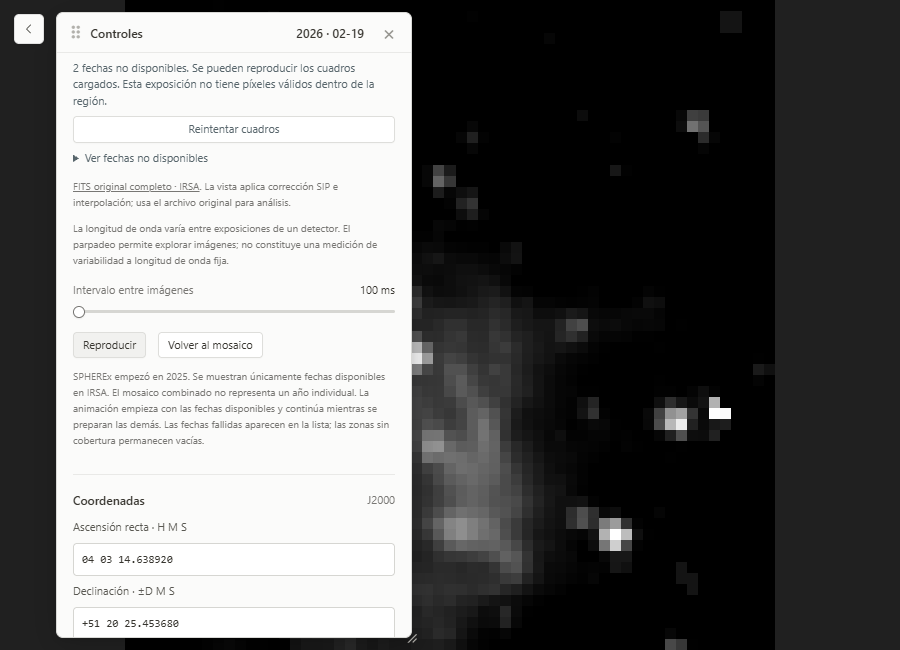
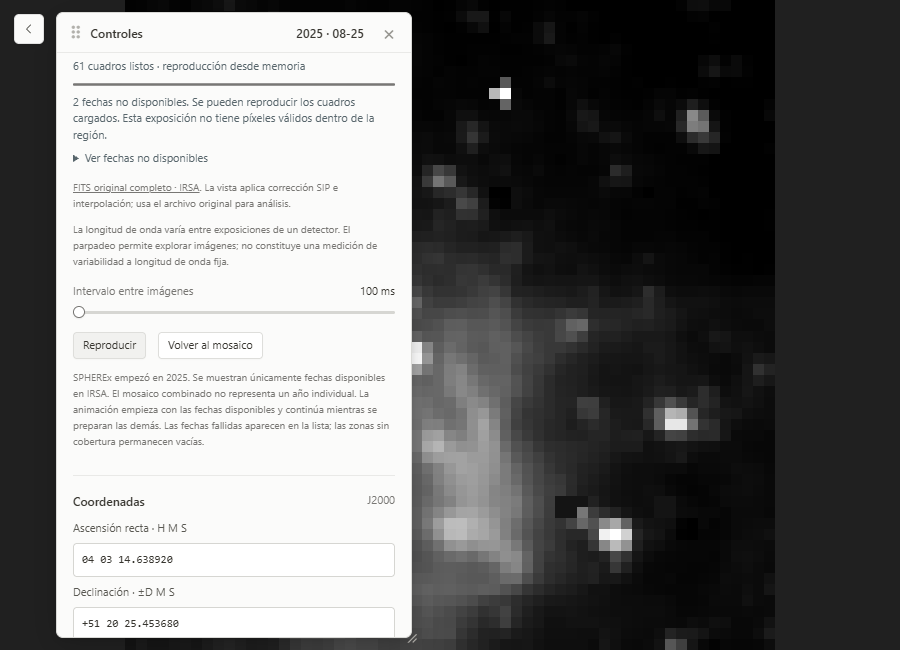
Document real region playback and current project status

diff --git a/docs/ESTADO.md b/docs/ESTADO.md
@@ -1,4 +1,4 @@
-# Estado del proyecto — 14 de noviembre de 2026
+# Estado del proyecto — 15 de noviembre de 2026
 
 ## Aplicación e infraestructura
 
@@ -7,7 +7,7 @@
 - Coordenadas de Iván/GorditoG integradas en el [PR #3](https://github.com/Chompin003/eon/pull/3). Su cuenta tiene permiso de escritura.
 - Cuatro ramas del equipo preparadas: `feat/sky-viewer`, `feat/spherex-data`, `feat/drawing-tools`, `feat/interface`. Sus cambios se conservan al sincronizar `main`.
 - Cloudflare Pages conectado con GitHub, producción `main`, build `npm run build`, salida `dist`, Node 24.11.1 y previews de todas las ramas no productivas.
-- Animación con precarga de recortes, corrección SIP en worker, capas persistentes y reutilización de memoria. No se reconstruye WebGL ni se vuelve a pedir el FITS durante un bucle preparado. Progreso y reintentos explícitos; límite de 96 MB de copias visuales por selección.
+- Animación de regiones seleccionables de 1.2′–15′, registro TAN-SIP en worker y reproducción Canvas 2D. Empieza con fechas disponibles y mantiene explícitas las que no tienen cobertura o fallan. Caché persistente local, pan/zoom, Paint y vista dividida. No se reconstruye WebGL ni se pide el FITS durante un bucle preparado. [Implementación y mediciones](ANIMACION-REGIONES.md).
 - Paint y comparaciones Hubble/Webb conservados al integrar la optimización. La búsqueda recupera automáticamente las ventanas temporales de respuestas SIA truncadas.
 
 ## Integración sin aprobación humana
